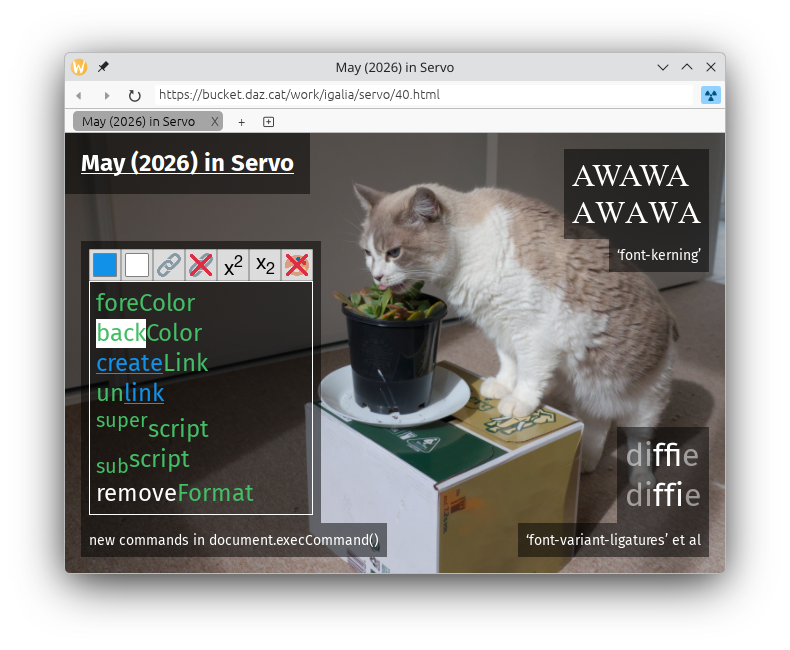
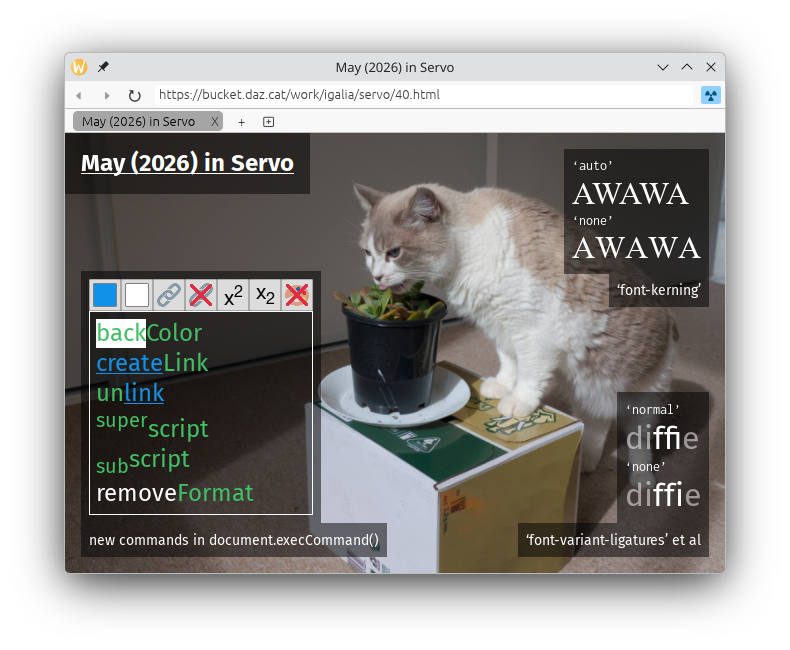
deploy: 4b12a9c392c1f83d06d887d31490b73c60a9c24a

Changed region(s): [[0.0911, 0.3692, 0.4253, 0.4923], [0.6987, 0.2462, 0.9114, 0.4923], [0.7595, 0.5846, 0.9114, 0.7385]]

diff --git a/twismay/blog/2026/06/30/may-in-servo/index.html b/twismay/blog/2026/06/30/may-in-servo/index.html
@@ -254,7 +254,7 @@
   <p><a href="https://github.com/servo/servo/releases/tag/v0.3.0"><strong>Servo 0.3.0</strong></a> contains all of the changes we landed in May, which came out to <strong>391 commits</strong> (March: 534).
 For security fixes, see <a href="#security"><strong>§ Security</strong></a>.</p>
 <figure>
-    <a href="/twismay/img/blog/2026-06-diffie.png"><img src="/twismay/img/blog/2026-06-diffie.png" alt="servoshell 0.3.0 showing several new features: the `document.execCommand()` commands ‘foreColor’, ‘backColor’, ‘createLink’, ‘unlink’, ‘superscript’, ‘subscript’, and ‘removeFormat’, plus ‘font-kerning’ and ‘font-variant-ligatures’"></a>
+    <a href="/twismay/img/blog/2026-06-diffie.png"><img src="/twismay/img/blog/2026-06-diffie.png" alt="servoshell 0.3.0 showing several new features: the `document.execCommand()` commands ‘backColor’, ‘createLink’, ‘unlink’, ‘superscript’, ‘subscript’, and ‘removeFormat’, plus ‘font-kerning’ and ‘font-variant-ligatures’"></a>
 </figure>
 <p>We’ve shipped several new web platform features:</p>
 <ul>
